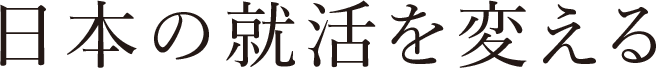
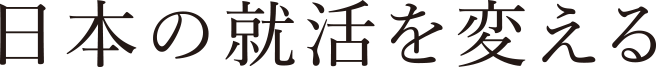
top/eyecatchを適切な画像に差し替えた。またeyecatchを画像にした上で適切なcssに修正。

diff --git a/top.html b/top.html
@@ -49,7 +49,7 @@
 
 <div class="topCover">
   <div class="topCover__eyecatch">
-    <h1 class="topCover__eyecatch__title">日本の就活を変える</h1>
+    <img class="topCover__eyecatch__title" src="img/top/cover/eyecatch.png">
   </div>
   <section class="topCover__image-list clearfix">
     <div class="topCover-image topCover-image--left">
@@ -86,7 +86,7 @@
       <span class="horizontal-line__inner js-horizontal-line-slide-in"></span>
     </div>
   </div>
-	<div class="topSection__under-text hidden-pc">目玉プロジェクト</div>
+  <div class="topSection__under-text hidden-pc">目玉プロジェクト</div>
   <!--<div class="topSection__vertical-line"></div>-->
   <section class="topSection__content">
     <article class="topProject clearfix">
@@ -95,27 +95,27 @@
       </div>
       <div class="topProject__desc">
         <h3 class="topProject__desc__title--odd">
-					<span class="topProject__desc--numberBigBlue" >
-						<font face="serif">1</font>
-					</span>
-					<span class="topProject__desc--eyecatch-size">TRYOUT就活</span>
-				</h3>
+          <span class="topProject__desc--numberBigBlue" >
+            <font face="serif">1</font>
+          </span>
+          <span class="topProject__desc--eyecatch-size">TRYOUT就活</span>
+        </h3>
         <div class="topProject__desc__text">
           <p class="topProject__text__item indent--none">
-						100名超の規模で実施する「1日完結型選考チャレンジ」
-					</p>
-					<p class="topProject__text__item indent--xs">
-						グループディスカッションから面接までトライアウト形式で就活
-					</p>
-					<p class="topProject__text__item indent--sm">
-						を実践！学生自身のレベルによって、進むルートが多数存在し、
-					</p>
-					<p class="topProject__text__item indent--md">
-						【真剣勝負×完全点数化】だからこそ、現時点でのレベルが
-					</p>
-					<p class="topProject__text__item indent--lg">
-						丸わかり。”本物の選考”を学内で実施します。
-					</p>
+            100名超の規模で実施する「1日完結型選考チャレンジ」
+          </p>
+          <p class="topProject__text__item indent--xs">
+            グループディスカッションから面接までトライアウト形式で就活
+          </p>
+          <p class="topProject__text__item indent--sm">
+            を実践！学生自身のレベルによって、進むルートが多数存在し、
+          </p>
+          <p class="topProject__text__item indent--md">
+            【真剣勝負×完全点数化】だからこそ、現時点でのレベルが
+          </p>
+          <p class="topProject__text__item indent--lg">
+            丸わかり。”本物の選考”を学内で実施します。
+          </p>
         </div>
       </div>
       <!--<div class="topProject__left">
@@ -130,52 +130,52 @@
     </article>
     <article class="topProject clearfix">
       <div class="topProject--reversed__left">
-				<h3 class="topProject__desc__title--even">
-					<span class="topProject__desc--eyecatch-size">
-						学内INTERN
-					</span>
-					<span class="topProject__desc--numberBigBlue" >
-						<font face="serif" style="color: rgba(112,179,211,1);">2</font>
-					</span>
-				</h3>
+        <h3 class="topProject__desc__title--even">
+          <span class="topProject__desc--eyecatch-size">
+            学内INTERN
+          </span>
+          <span class="topProject__desc--numberBigBlue" >
+            <font face="serif" style="color: rgba(112,179,211,1);">2</font>
+          </span>
+        </h3>
         <div class="topProject__desc--second">
           <div class="topProject--reversed__left__desc">
-						<p class="topProject__text__item">
-							各業種や志向を持つ学生と、分野ごとに異なる強みを持つ
-						</p>
-						<p class="topProject__text__item">
-							企業との「学内完結型合同インターン」
-						</p>
-					</div>
-					<p class="topProject__text__item padding--xs">
-						単位認定が取れる程の濃密な学内インターンを行い、本
-					</p>
-					<p class="topProject__text__item padding--sm">
-						当の意味で”働く”が分かり、早期段階で学生や企業に
-					</p>
-					<p class="topProject__text__item padding--md">
-						とって本当にマッチする相手を見つける足がかり
-					</p>
-					<p class="topProject__text__item padding--lg">
-						に。社風体験ワークや模擬業務ツールなどを活
-					</p>
-					<p class="topProject__text__item padding--xlg">
-						用し、各企業の”リアル業務”が分かる。
-					</p>
+            <p class="topProject__text__item">
+              各業種や志向を持つ学生と、分野ごとに異なる強みを持つ
+            </p>
+            <p class="topProject__text__item">
+              企業との「学内完結型合同インターン」
+            </p>
+          </div>
+          <p class="topProject__text__item padding--xs">
+            単位認定が取れる程の濃密な学内インターンを行い、本
+          </p>
+          <p class="topProject__text__item padding--sm">
+            当の意味で”働く”が分かり、早期段階で学生や企業に
+          </p>
+          <p class="topProject__text__item padding--md">
+            とって本当にマッチする相手を見つける足がかり
+          </p>
+          <p class="topProject__text__item padding--lg">
+            に。社風体験ワークや模擬業務ツールなどを活
+          </p>
+          <p class="topProject__text__item padding--xlg">
+            用し、各企業の”リアル業務”が分かる。
+          </p>
         </div>
       </div>
       <div class="topProject--reversed__right">
         <img class="topProject--reversed__right__image" src="img/top/project/project-2.png" alt="Project Image">
       </div>
-			<!--
+      <!--
       <div class="topProject__photo topProject__photo__right">
         <img class="topProject__photo__image" src="img/top/project/project-2.png" alt="Project Image">
       </div>
       <div class="topProject__desc topProject__desc--left">
-				<h3 class="topProject__desc__title--even"><span class="topProject__desc--eyecatch-size">学内INTERN</span>
-				<span class="topProject__desc--numberBigBlue" ><font face="serif" style="color: rgba(20,71,124,1);">2</font></span>
-			</h3>
-		    <div class="topProject__desc__text">
+        <h3 class="topProject__desc__title--even"><span class="topProject__desc--eyecatch-size">学内INTERN</span>
+        <span class="topProject__desc--numberBigBlue" ><font face="serif" style="color: rgba(20,71,124,1);">2</font></span>
+      </h3>
+        <div class="topProject__desc__text">
           <span>各業種や志向を持つ学生と、分野ごとに異なる強みを持つ企業との「学内完結型合同インターン」</span><span>単位認定が取れる程の濃密な学内インターンを行い、本当の意味で”働く”が分かり、早期段階で学生や企業にとって本当にマッチする相手を見つける足がかりに。社風体験ワークや模擬業務ツールなどを活用し、各企業の”リアル業務”が分かる。</span>
         </div>
       </div> -->
@@ -186,68 +186,68 @@
         <img class="topProject__left__image" src="img/top/project/project-3.png" alt="Project Image">
       </div>
       <div class="topProject__right">
-				<h3 class="topProject__desc__title--odd"><span class="topProject__desc--numberBigBlue" ><font face="serif" style="color: rgba(50,126,165,1);">3</font></span><span class="topProject__desc--eyecatch-size">TRYOUT就活</span></h3>
+        <h3 class="topProject__desc__title--odd"><span class="topProject__desc--numberBigBlue" ><font face="serif" style="color: rgba(50,126,165,1);">3</font></span><span class="topProject__desc--eyecatch-size">TRYOUT就活</span></h3>
         <div>
-					<div class="topProject__desc__text">
-	          <div class="topProject__text__item indent--none">
-							各業種や志向を持つ学生と、分野ごとに異なる強みを持つ企業との
-						</div>
-						<div class="topProject__text__item indent--xxs">
-							「学内完結型合同インターン」
-						</div>
-						<div class="topProject__text__item indent--sm">
-							位認定が取れる程の濃密な学内インターンを行い、本当の意味
-						</div>
-						<div class="topProject__text__item indent--md">
-							で"働く"が分かり、早期段階で学生や企業にとって本当にマッ
-						</div>
-						<div class="topProject__text__item indent--lg">
-							チする相手を見つける足がかりに。社風体験ワークや模擬
-						</div>
-						<div class="topProject__text__item indent--xlg">
-							業務ツールなどを活用し、各企業の”リアル業務”が分かる。
-						</div>
-	        </div>
+          <div class="topProject__desc__text">
+            <div class="topProject__text__item indent--none">
+              各業種や志向を持つ学生と、分野ごとに異なる強みを持つ企業との
+            </div>
+            <div class="topProject__text__item indent--xxs">
+              「学内完結型合同インターン」
+            </div>
+            <div class="topProject__text__item indent--sm">
+              位認定が取れる程の濃密な学内インターンを行い、本当の意味
+            </div>
+            <div class="topProject__text__item indent--md">
+              で"働く"が分かり、早期段階で学生や企業にとって本当にマッ
+            </div>
+            <div class="topProject__text__item indent--lg">
+              チする相手を見つける足がかりに。社風体験ワークや模擬
+            </div>
+            <div class="topProject__text__item indent--xlg">
+              業務ツールなどを活用し、各企業の”リアル業務”が分かる。
+            </div>
+          </div>
         </div>
       </div>
     </article>
     <article class="topProject topProject--reversed clearfix">
       <div class="topProject--reversed__left">
-				<h3 class="topProject__desc__title--even">
-					<span class="topProject__desc--eyecatch-size">
-						学内INTERN
-					</span>
-					<span class="topProject__desc--numberBigBlue" >
-						<font face="serif" style="color: rgba(112,179,211,1);">4</font>
-					</span>
-				</h3>
-      	<div>
+        <h3 class="topProject__desc__title--even">
+          <span class="topProject__desc--eyecatch-size">
+            学内INTERN
+          </span>
+          <span class="topProject__desc--numberBigBlue" >
+            <font face="serif" style="color: rgba(112,179,211,1);">4</font>
+          </span>
+        </h3>
+        <div>
           <div class="topProject--reversed__left__desc">
-						<div class="topProject--reversed__left__desc">
-							<p class="topProject__text__item">
-								各業種や志向を持つ学生と、分野ごとに異なる強みを持つ
-							</p>
-							<p class="topProject__text__item">
-								企業との「学内完結型合同インターン」
-							</p>
-						</div>
-						<p class="topProject__text__item padding--xs">
+            <div class="topProject--reversed__left__desc">
+              <p class="topProject__text__item">
+                各業種や志向を持つ学生と、分野ごとに異なる強みを持つ
+              </p>
+              <p class="topProject__text__item">
+                企業との「学内完結型合同インターン」
+              </p>
+            </div>
+            <p class="topProject__text__item padding--xs">
 
-							単位認定が取れる程の濃密な学内インターンを行い、本
-						</p>
-						<p class="topProject__text__item padding--sm">
-							当の意味で”働く”が分かり、早期段階で学生や企業に
-						</p>
-						<p class="topProject__text__item padding--md">
-							とって本当にマッチする相手を見つける足がかり
-						</p>
-						<p class="topProject__text__item padding--lg">
-							に。社風体験ワークや模擬業務ツールなどを活
-						</p>
-						<p class="topProject__text__item padding--xlg">
-							用し、各企業の”リアル業務”が分かる。
-						</p>
-					</div>
+              単位認定が取れる程の濃密な学内インターンを行い、本
+            </p>
+            <p class="topProject__text__item padding--sm">
+              当の意味で”働く”が分かり、早期段階で学生や企業に
+            </p>
+            <p class="topProject__text__item padding--md">
+              とって本当にマッチする相手を見つける足がかり
+            </p>
+            <p class="topProject__text__item padding--lg">
+              に。社風体験ワークや模擬業務ツールなどを活
+            </p>
+            <p class="topProject__text__item padding--xlg">
+              用し、各企業の”リアル業務”が分かる。
+            </p>
+          </div>
         </div>
       </div>
       <div class="topProject--reversed__right">
@@ -263,35 +263,35 @@
     <h2 class="topSection__title__inner">NEWS</h2>
     <div class="topSection__title__horizontal-line horizontal-line sp__horizontal-line--none">
       <span class="horizontal-line__inner js-horizontal-line-slide-in"></span>
-			<div class="topNews__all-news--sp hidden-pc">
-	      <a class="topNews__all-news__link--sp" href="#">全てのニュースを見る</a>
-	    </div>
+      <div class="topNews__all-news--sp hidden-pc">
+        <a class="topNews__all-news__link--sp" href="#">全てのニュースを見る</a>
+      </div>
     </div>
   </div>
-	<div class="topSection__under-text hidden-pc">ニュース</div>
+  <div class="topSection__under-text hidden-pc">ニュース</div>
   <!--<span class="topSection__title__line topSection__title__line--v"></span>-->
   <section class="topSection__content topNews clearfix">
-		<div class="topNews__article-box">
-			<div class="topNews__left-border--hover" id="first-border"></div>
-	    <article class="topNews__article clearfix" id="first-news">
-	      <time class="topNews__article__date" datetime="2017-5-29" pubdate="pubdate">2017年5月29日</time>
-	      <h3 class="topNews__article__title">最新のニュースのタイトル</h3>
-	    </article>
-		</div>
-		<div class="topNews__article-box">
-			<div class="topNews__left-border--hover" id="second-border"></div>
-	    <article class="topNews__article clearfix" id="second-news">
-	      <time class="topNews__article__date" datetime="2017-5-30" pubdate="pubdate">2017年5月30日</time>
-	      <h3 class="topNews__article__title">2番目のニュースのタイトル</h3>
-	    </article>
-		</div>
-		<div class="topNews__article-box">
-			<div class="topNews__left-border--hover" id="third-border"></div>
-	    <article class="topNews__article clearfix" id="third-news">
-	      <time class="topNews__article__date" datetime="2017-5-31" pubdate="pubdate">2017年5月31日</time>
-	      <h3 class="topNews__article__title">3番目のニュースのタイトル</h3>
-	    </article>
-		</div>
+    <div class="topNews__article-box">
+      <div class="topNews__left-border--hover" id="first-border"></div>
+      <article class="topNews__article clearfix" id="first-news">
+        <time class="topNews__article__date" datetime="2017-5-29" pubdate="pubdate">2017年5月29日</time>
+        <h3 class="topNews__article__title">最新のニュースのタイトル</h3>
+      </article>
+    </div>
+    <div class="topNews__article-box">
+      <div class="topNews__left-border--hover" id="second-border"></div>
+      <article class="topNews__article clearfix" id="second-news">
+        <time class="topNews__article__date" datetime="2017-5-30" pubdate="pubdate">2017年5月30日</time>
+        <h3 class="topNews__article__title">2番目のニュースのタイトル</h3>
+      </article>
+    </div>
+    <div class="topNews__article-box">
+      <div class="topNews__left-border--hover" id="third-border"></div>
+      <article class="topNews__article clearfix" id="third-news">
+        <time class="topNews__article__date" datetime="2017-5-31" pubdate="pubdate">2017年5月31日</time>
+        <h3 class="topNews__article__title">3番目のニュースのタイトル</h3>
+      </article>
+    </div>
     <div class="topNews__all-news hidden-sp">
       <a class="topNews__all-news__link" href="news.html">全てのニュースを見る</a>
     </div>

diff --git a/css/base.css b/css/base.css
@@ -131,6 +131,10 @@ body {
   position: relative;
   margin-bottom: 30px; }
   .topCover__eyecatch {
+    display: -webkit-flex;
+    display: flex;
+    -webkit-justify-content: center;
+    justify-content: center;
     z-index: 1;
     position: absolute;
     top: 90px;
@@ -141,14 +145,10 @@ body {
       .topCover__eyecatch {
         top: 45px; } }
     .topCover__eyecatch__title {
-      display: -webkit-flex;
-      display: flex;
-      -webkit-justify-content: center;
-      justify-content: center;
-      font-size: 5vw; }
+      height: 4.2vw; }
       @media screen and (max-width: 640px) {
         .topCover__eyecatch__title {
-          font-size: 7vw; } }
+          height: 5.6vw; } }
   @media screen and (max-width: 640px) {
     .topCover__image-list {
       padding-top: 140px;

diff --git a/scss/top.scss b/scss/top.scss
@@ -118,6 +118,7 @@
   position: relative;
   margin-bottom: 30px;
   &__eyecatch {
+    @include horizontal-align-center-inner;
     z-index: 1;
     position: absolute;
     top: 90px;
@@ -128,11 +129,11 @@
       top: 45px;
     }
     &__title {
-      @include horizontal-align-center-inner;
-      font-size: 5vw;
+      height: 4.2vw;
       @include media-query(mobile) {
-        font-size: 7vw;
+        height: 5.6vw;
       }
+
     }
   }
   &__image-list {
@@ -147,7 +148,7 @@
   position: relative;
   float: left;
   width: 33.33333333%;
-  height: 100vh;//IE11~
+  height: 100vh;
   @include media-query (mobile) {
     clear: both;
     width: 100%;
